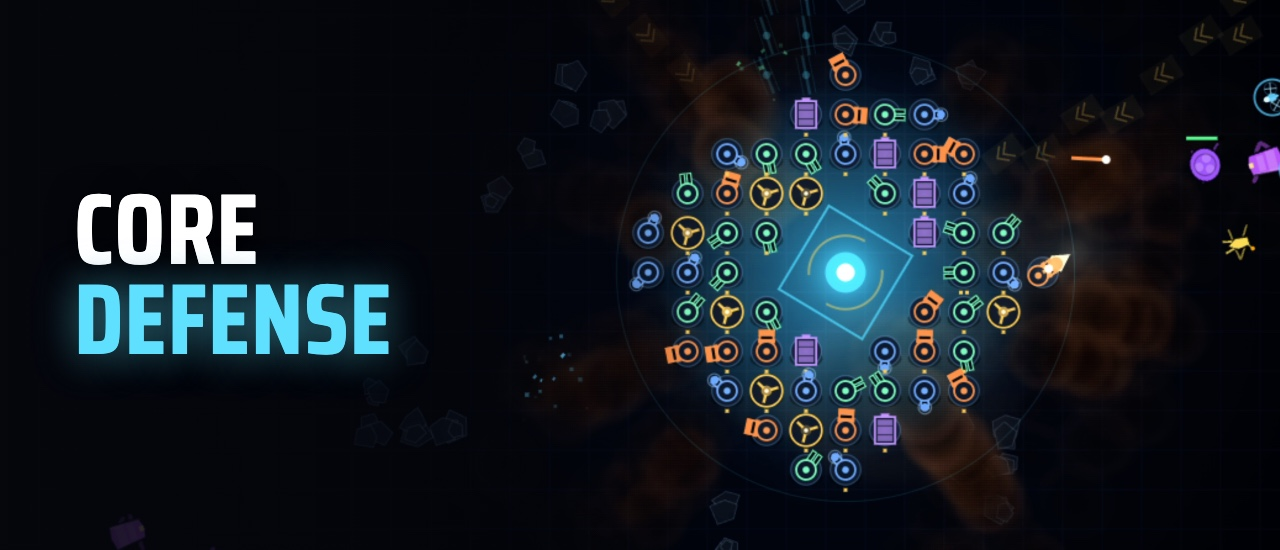
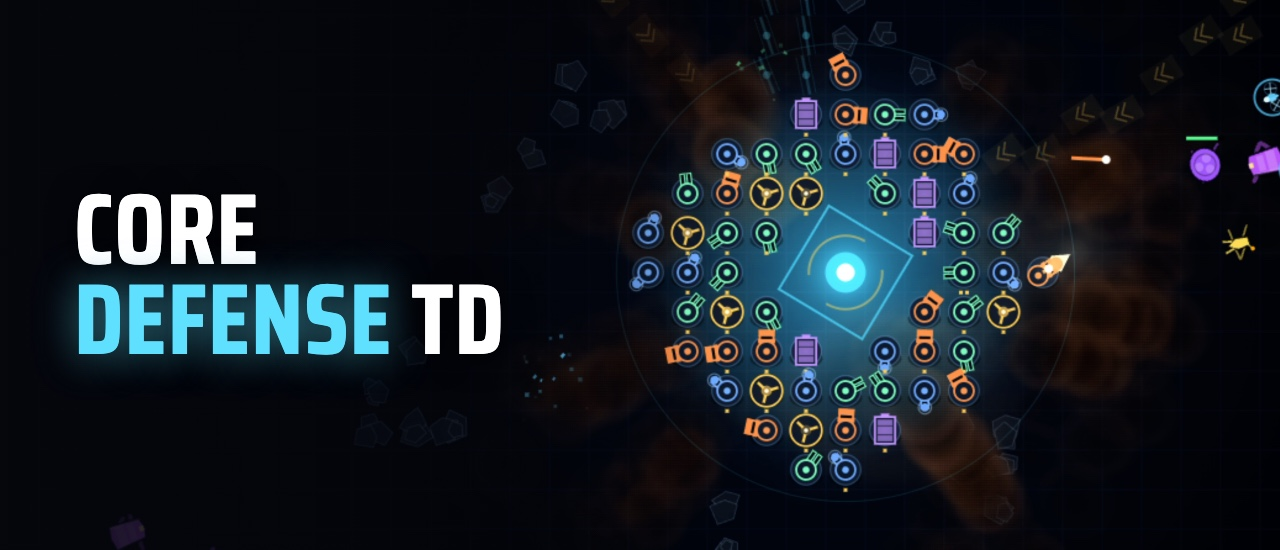
Überall Core Defense TD: Quellen, Exporte, Vorschaubilder
Das „TD“ stand nur in der englischen Fassung und wurde beim Bauen teils
wieder entfernt. Jetzt heißt das Spiel durchgehend so: Landingpage, Overlay,
Ergebniszeile, en.js, Build-Skript ohne Rücknahme, Prüfungen, README und
CLAUDE.md. GameDistribution-Vorschaubilder neu gerendert. dist-web-en
unverändert, weil die Web-Fassung das „TD“ schon trug.

Changed region(s): [[0.3125, 0.4945, 0.4062, 0.6491]]

diff --git a/tools/crazygames/en.js b/tools/crazygames/en.js
@@ -456,10 +456,8 @@ module.exports = {
     'Fortsetzen': 'Continue',
     'Neu anfangen': 'Start over',
     'Freies Feld': 'Free map',
-    // Auf CrazyGames heißt das Spiel „Core Defense TD“ — der Name CORE DEFENSE war
-    // dort durch die abgelehnte erste Einreichung belegt.
-    'CORE DEFENSE': 'CORE DEFENSE TD',
-    'CORE DEFENSE · ': 'CORE DEFENSE TD · ',
+    'CORE DEFENSE TD': 'CORE DEFENSE TD',
+    'CORE DEFENSE TD · ': 'CORE DEFENSE TD · ',
     'Der Kern in der Mitte versorgt deine Türme mit Energie. Angriffe kommen aus allen Richtungen. ':
       'The core in the center powers your towers. Attacks come from every direction. ',
     'Baue Pylone, um das Netz nach außen zu tragen, und Reaktoren, damit dir mitten in der Welle nicht ':
@@ -533,8 +531,8 @@ module.exports = {
   /* Die Spielseite. Jedes Paar muss genau einmal vorkommen. */
   html: [
     ['<html lang="de">', '<html lang="en">'],
-    ['<title>CORE DEFENSE</title>', '<title>Core Defense TD</title>'],
-    ['<h1 id="ovTitle">CORE DEFENSE</h1>', '<h1 id="ovTitle">CORE DEFENSE TD</h1>'],
+    ['<title>CORE DEFENSE TD</title>', '<title>Core Defense TD</title>'],
+    ['<h1 id="ovTitle">CORE DEFENSE TD</h1>', '<h1 id="ovTitle">CORE DEFENSE TD</h1>'],
     ['Tower Defense von innen nach außen: Die Wellen kommen von außen, der Strom aus der Mitte.',
      'Tower defense turned inside out: the waves come from outside, the power from the center.'],
     ['<span class="label">Materie</span>', '<span class="label">Matter</span>'],

diff --git a/index.html b/index.html
@@ -3,7 +3,7 @@
 <head>
 <meta charset="utf-8">
 <meta name="viewport" content="width=device-width, initial-scale=1">
-<title>CORE DEFENSE — Tower Defense von innen nach außen</title>
+<title>CORE DEFENSE TD — Tower Defense von innen nach außen</title>
 <meta name="description" content="Tower Defense von innen nach außen: Die Wellen kommen von außen, der Strom aus der Mitte. Läuft ohne Installation im Browser.">
 <link rel="preconnect" href="https://fonts.googleapis.com">
 <link rel="preconnect" href="https://fonts.gstatic.com" crossorigin>
@@ -17,7 +17,7 @@
 <!-- ============ Zeichnungsrahmen: Kopf ============ -->
 <header class="l-head">
   <span class="l-head-id">CD&#8209;001</span>
-  <span class="l-head-t">Core Defense</span>
+  <span class="l-head-t">Core Defense TD</span>
   <nav class="l-head-nav">
     <a href="#spielen">Spielen</a>
     <a href="#aufbau">Aufbau</a>
@@ -235,7 +235,7 @@
 
       <div id="overlay" hidden>
         <div class="panel">
-          <h1 id="ovTitle">CORE DEFENSE</h1>
+          <h1 id="ovTitle">CORE DEFENSE TD</h1>
           <p id="ovText"></p>
           <div id="ovList" hidden></div>
           <div class="ov-btns">
@@ -599,7 +599,7 @@
 </main>
 
 <footer class="l-foot">
-  <span>CD-001 · Core Defense</span>
+  <span>CD-001 · Core Defense TD</span>
   <span>HTML, CSS, Canvas. Kein Build, keine Abhängigkeiten, Klang zur Laufzeit erzeugt.</span>
 </footer>
 

diff --git a/tools/pruefen.js b/tools/pruefen.js
@@ -1877,7 +1877,7 @@ beschreibe('Das Ergebnis lässt sich weitergeben', () => {
   // Wer sich eingetragen hat, steht auch in der Zeile, die weitergegeben wird
   h.nameMerken('Detlef');
   stimmt('die Zeile nennt den Namen zuerst',
-         h.ergebnisText(g.eintragen().eintrag).indexOf('CORE DEFENSE · Detlef · ') === 0);
+         h.ergebnisText(g.eintragen().eintrag).indexOf('CORE DEFENSE TD · Detlef · ') === 0);
 });
 
 beschreibe('Der Tag kommt aus dem Kalender des Spielers', () => {
@@ -2465,7 +2465,7 @@ beschreibe('GameDistribution-Export', () => {
     stimmt('SDK steht im Kopf, vor dem Spiel',
            kopf.includes('gamedistribution-jssdk') && html.indexOf('main.js') < html.indexOf('js/config.js'));
     stimmt('kein CrazyGames-SDK im Export', !/crazygames\.com|CrazyGames\.SDK/.test(html + sdk));
-    stimmt('Titel ohne „TD“', html.includes('<title>Core Defense</title>'));
+    stimmt('Titel mit „TD“', html.includes('<title>Core Defense TD</title>'));
     stimmt('Fenster-Teil von sdk.js bleibt', sdk.includes('function fitStage()') && sdk.includes('game.inView = true'));
     stimmt('die ZIP-Datei liegt neben dem Ordner', fs.existsSync(tmp + '.zip'));
 

diff --git a/js/game.js b/js/game.js
@@ -3489,7 +3489,7 @@ function ergebnisText(e) {
   const teile = e.teile || {};
   const top = Object.keys(teile).sort((a, b) => teile[b] - teile[a]).slice(0, 3)
     .map(t => teile[t] + ' ' + teilName(t, teile[t])).join(', ');
-  return 'CORE DEFENSE · ' + (e.name ? e.name + ' · ' : '') +
+  return 'CORE DEFENSE TD · ' + (e.name ? e.name + ' · ' : '') +
          (e.tag ? 'Tagesfeld ' + datumKurz(e.tag) : 'freies Feld') +
          ' · Welle ' + e.wave + (top ? ' · ' + top : '');
 }
@@ -3840,7 +3840,7 @@ if (fortsetzen) {
     location.reload();
   };
 } else {
-  showOverlay('CORE DEFENSE',
+  showOverlay('CORE DEFENSE TD',
     'Der Kern in der Mitte versorgt deine Türme mit Energie. Angriffe kommen aus allen Richtungen. ' +
     'Baue Pylone, um das Netz nach außen zu tragen, und Reaktoren, damit dir mitten in der Welle nicht ' +
     'der Strom ausgeht. Nach jeder Welle wählst du eine Karte, die für den Rest der Partie gilt. ' +

diff --git a/tools/gamedistribution/cover.html b/tools/gamedistribution/cover.html
@@ -2,7 +2,7 @@
 <html lang="en">
 <head>
 <meta charset="utf-8">
-<title>Core Defense cover</title>
+<title>Core Defense TD cover</title>
 <link rel="stylesheet" href="../crazygames/fonts.css">
 <style>
   /* Quelle der Vorschaubilder für GameDistribution, gerendert von cover.sh.
@@ -19,6 +19,7 @@
     text-shadow:0 4px 30px rgba(0,0,0,.9);
   }
   h1 span{display:block}
+  h1 b{font-weight:inherit;color:#fff;text-shadow:0 4px 30px rgba(0,0,0,.9)}
   h1 .a{color:#5fe0ff;text-shadow:0 0 40px rgba(95,224,255,.55),0 4px 30px rgba(0,0,0,.9)}
 
   /* 1280×720: Ausschnitt 2311×1300 ab (828, 557), Titel links */
@@ -58,7 +59,7 @@
 </style>
 </head>
 <body>
-<div class="cover" id="c"><h1><span>Core</span> <span class="a">Defense</span></h1></div>
+<div class="cover" id="c"><h1><span>Core</span> <span class="a">Defense <b>TD</b></span></h1></div>
 <script>
   document.getElementById('c').classList.add(location.hash.slice(1));
 </script>

diff --git a/tools/crazygames/index.html b/tools/crazygames/index.html
@@ -3,7 +3,7 @@
 <head>
 <meta charset="utf-8">
 <meta name="viewport" content="width=device-width, initial-scale=1">
-<title>CORE DEFENSE</title>
+<title>CORE DEFENSE TD</title>
 <meta name="description" content="Tower Defense von innen nach außen: Die Wellen kommen von außen, der Strom aus der Mitte.">
 <link rel="stylesheet" href="fonts.css">
 <link rel="stylesheet" href="style.css">
@@ -106,7 +106,7 @@
 
     <div id="overlay" hidden>
       <div class="panel">
-        <h1 id="ovTitle">CORE DEFENSE</h1>
+        <h1 id="ovTitle">CORE DEFENSE TD</h1>
         <p id="ovText"></p>
         <div id="ovList" hidden></div>
         <div class="ov-btns">

diff --git a/landing.css b/landing.css
@@ -1,5 +1,5 @@
 /* =================================================================
-   CORE DEFENSE — Landingpage
+   CORE DEFENSE TD — Landingpage
    Bildidee: ein technischer Konstruktionsplan des Kerns. Blaupausen-
    grund mit Millimeterraster, Bemaßungen mit echten Spielwerten,
    Titelblock, Stückliste — und mittendrin läuft die Anlage wirklich.

diff --git a/README.md b/README.md
@@ -1,4 +1,4 @@
-# CORE DEFENSE
+# CORE DEFENSE TD
 
 Ein Tower-Defense-Spiel mit umgedrehter Geometrie: **die Angriffe kommen von außen**,
 du baust vom Zentrum nach außen. In der Mitte steht der Kern — gleichzeitig Schutzobjekt
@@ -374,7 +374,7 @@ Nach dem Kernverlust steht neben „Neu starten" ein Knopf **Ergebnis kopieren**
 Zwischenablage landet eine Zeile zum Weitergeben:
 
 ```
-CORE DEFENSE · Tagesfeld 06.09.2026 · Welle 23 · 6 Pylone, 4 Blaster, 3 Reaktoren
+CORE DEFENSE TD · Tagesfeld 06.09.2026 · Welle 23 · 6 Pylone, 4 Blaster, 3 Reaktoren
 ```
 
 Im freien Feld steht dort ausdrücklich `freies Feld` statt eines Datums — ein Ergebnis
@@ -1141,7 +1141,7 @@ Game ID gibt das Portal beim Anlegen des Spiels vor; ohne sie steht ein Platzhal
 Die Vorschaubilder verlangt das Portal als JPG in 512×384, 512×512 und 200×120 (empfohlen
 zusätzlich 1280×720 und 1280×550). `tools/gamedistribution/cover.sh` rendert sie aus
 `cover.html` mit Chrome headless in `tools/gamedistribution/medien/`; der Titel heißt dort
-CORE DEFENSE ohne „TD“ und steht nur in den größeren Formaten.
+CORE DEFENSE TD und steht nur in den größeren Formaten.
 
 `node tools/pruefen.js` baut den Export in einen Temp-Ordner und prüft Kopf, Game ID, fehlende
 CrazyGames-Reste und das Verhalten von `gd.js` in einer Attrappe. Fehlt das SDK

diff --git a/CLAUDE.md b/CLAUDE.md
@@ -1,4 +1,4 @@
-# CORE DEFENSE
+# CORE DEFENSE TD
 
 Ein umgekehrtes Tower-Defense im Browser: Wellen kommen aus allen Richtungen, der Kern
 in der Mitte ist zugleich das zu schützende Objekt und die Energiequelle der Türme.
@@ -132,9 +132,9 @@ hingen: die ungenutzten eingebetteten Schriften im Export, die Medien in
 `tools/build-crazygames.sh` ohne Argument baut weiterhin `dist-crazygames/` samt Zip, mit
 SDK und eingebetteten Schriften. Gebraucht wird das nicht mehr; die Namen bleiben, weil
 die web-Variante auf denselben Dateien sitzt. Ein Rest steckt noch im Wörterbuch: In
-`en.js` heißt das Spiel CORE DEFENSE TD. Seit dem 30.09.2026 gilt das auch für die
-web-Variante auf dheits.de; nur die gamedistribution-Variante ersetzt es beim Bauen
-wieder durch CORE DEFENSE, weil ihre Vorschaubilder ohne „TD“ gerendert sind.
+Das Spiel heißt überall CORE DEFENSE TD, in den Quellen wie in allen Exporten. Das „TD“
+stammt von der zweiten CrazyGames-Einreichung und ist seit dem 30.09.2026 der Name, weil
+er der richtige ist; beim Bauen wird nichts mehr zurückgenommen.
 
 ### GameDistribution
 
